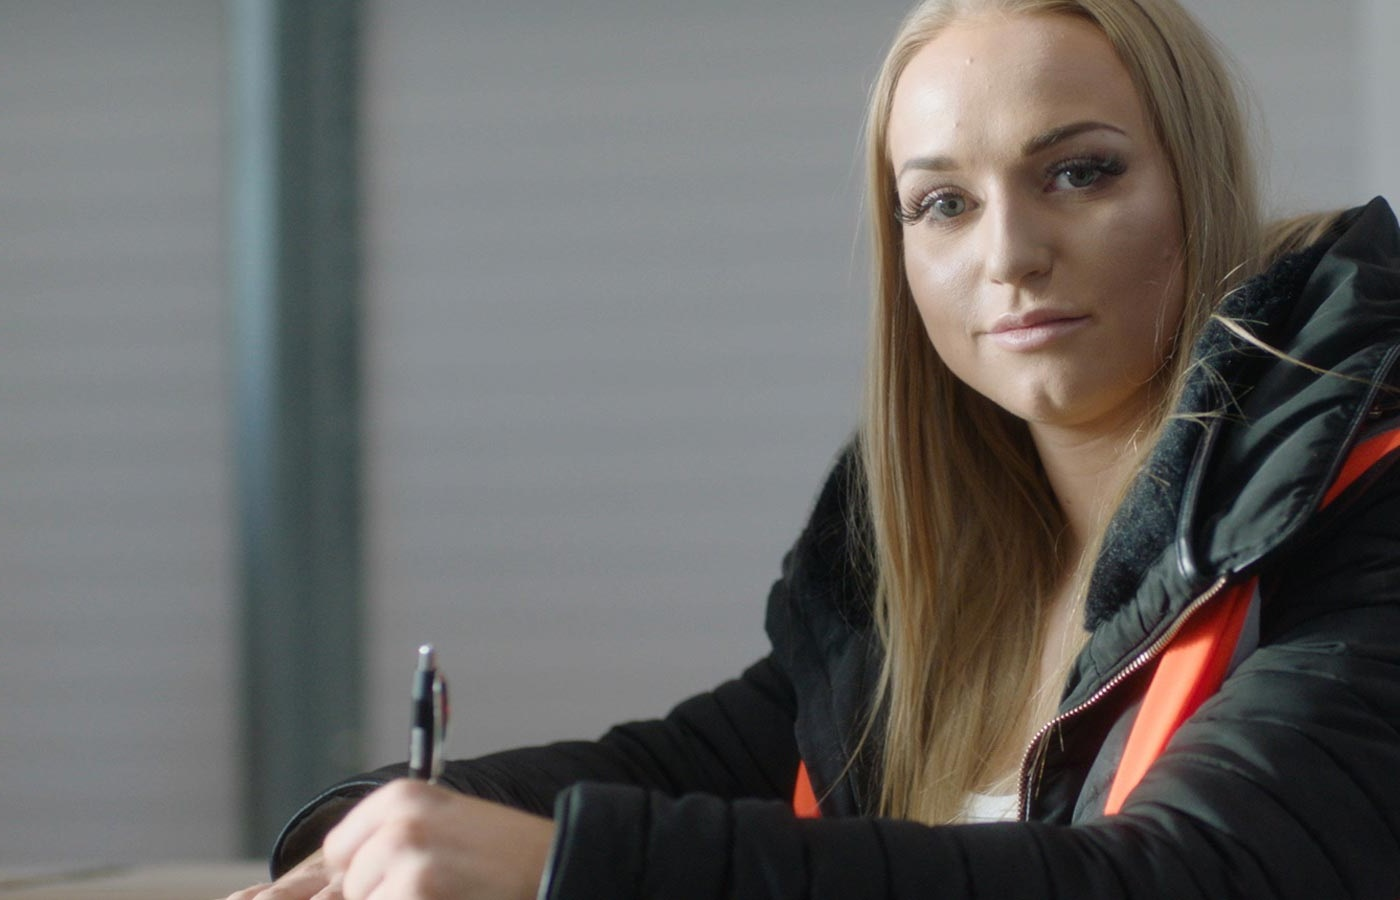
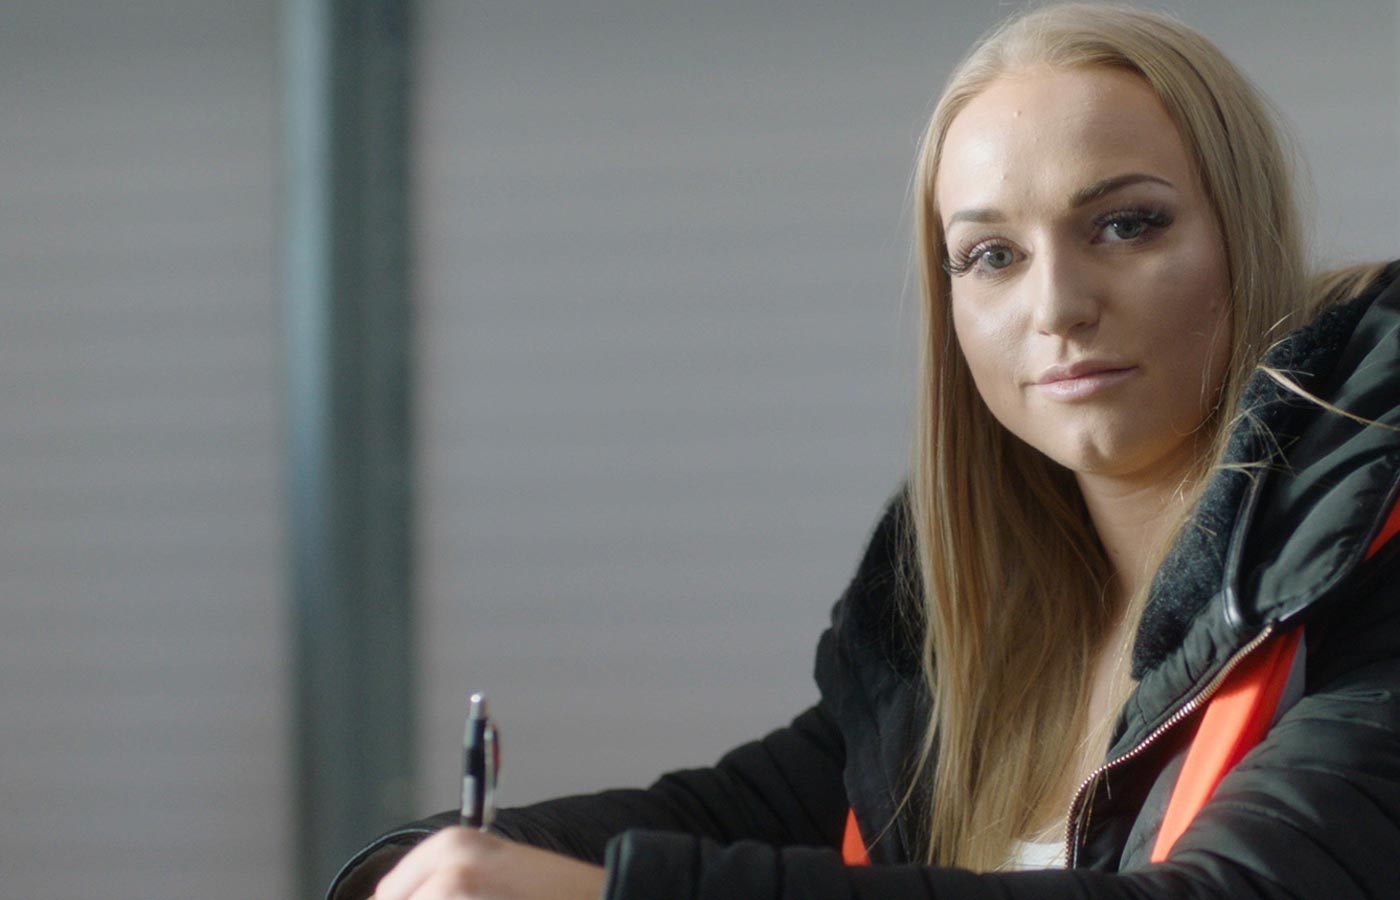
styles tidy up and image update

diff --git a/dist/campaign/css/screen.css b/dist/campaign/css/screen.css
@@ -2988,12 +2988,6 @@ p {
 
 .hero-banner__background--apprentice-ella {
   background-image: linear-gradient(255deg, rgba(0, 0, 0, 0) 0%, black 100%), url("../images/apprentice/ella-hero-1.jpg"); }
-  @media (min-width: 20em) {
-    .hero-banner__background--apprentice-ella {
-      background-position: 0 10%; } }
-  @media (min-width: 46.25em) {
-    .hero-banner__background--apprentice-ella {
-      background-position: 0 0; } }
   .hero-banner--right-aligned .hero-banner__background--apprentice-ella {
     -moz-transform: scaleX(-1);
     -o-transform: scaleX(-1);
@@ -4807,7 +4801,8 @@ p {
 
 .cssmask .cssmask-remove {
   clip-path: none;
-  -webkit-clip-path: none; }
+  -webkit-clip-path: none;
+  margin-bottom: 0px; }
 
 @media (min-width: 46.25em) {
   .hidden--desktop {

diff --git a/src/campaign/sass/components/_hero-banner.scss b/src/campaign/sass/components/_hero-banner.scss
@@ -221,9 +221,6 @@ $hero-text-colour: #fff;
 .hero-banner--apprentice .hero-banner__background {
 
   background-size: auto;
-  @include mq($from: tablet) {
-
-  }
   @include mq($from: desktop) {
     background-position: 0 20%;
     background-size: cover;
@@ -284,12 +281,6 @@ $hero-text-colour: #fff;
 
 .hero-banner__background--apprentice-ella{
 background-image: linear-gradient(255deg, rgba(0,0,0,0) 0%, rgba(0,0,0,1) 100%), url("../images/apprentice/ella-hero-1.jpg");
-  @include mq($from: mobile) {
-    background-position: 0 10%;
-  }  
-  @include mq($from: tablet) {
-    background-position: 0 0;
-  }
   .hero-banner--right-aligned & {
     -moz-transform: scaleX(-1);
     -o-transform: scaleX(-1);

diff --git a/src/campaign/sass/pages/_homepage.scss b/src/campaign/sass/pages/_homepage.scss
@@ -149,5 +149,6 @@
   .cssmask-remove{
     clip-path: none;
     -webkit-clip-path:none;
+    margin-bottom:0px;
   }
 }
